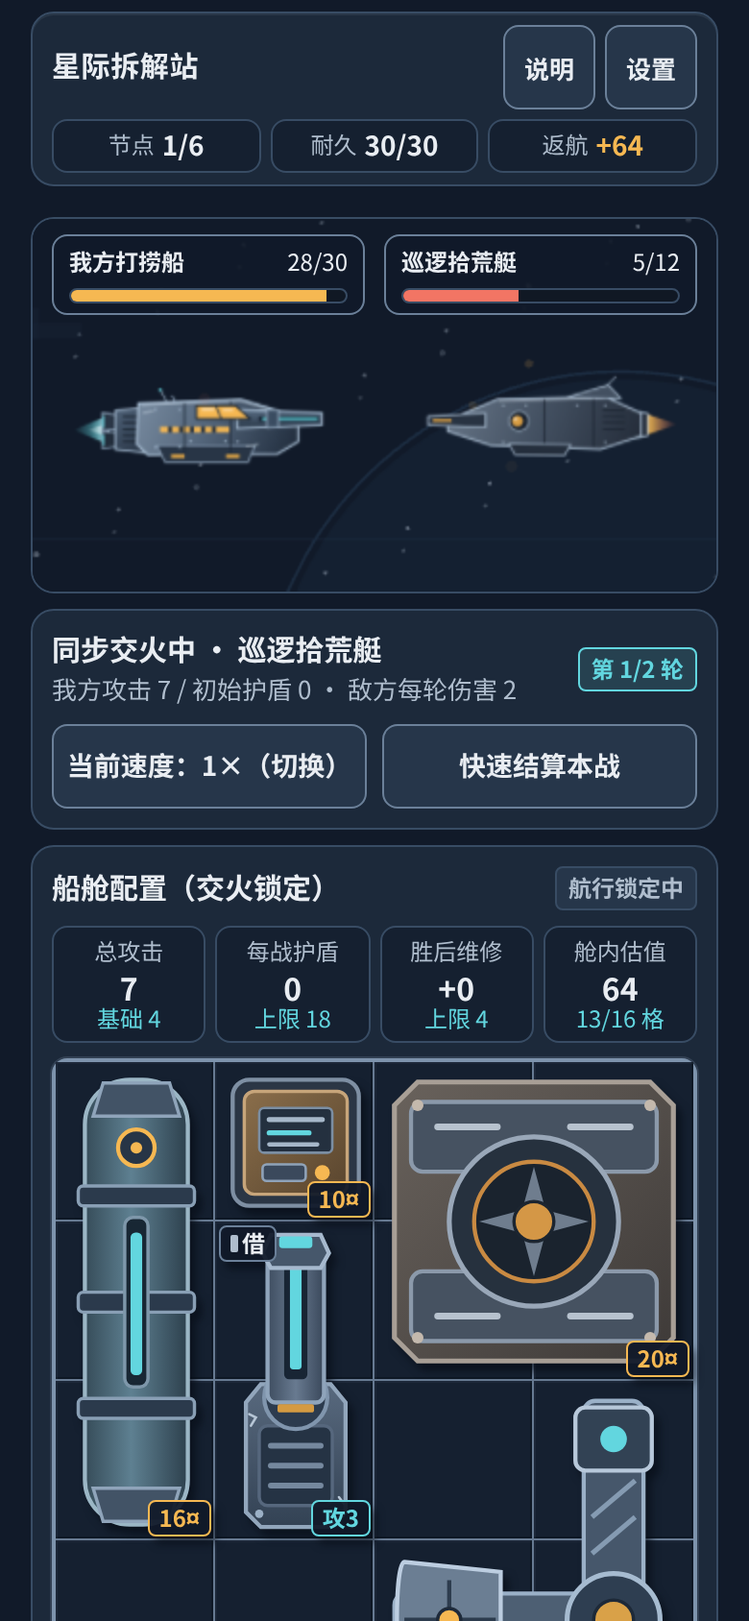
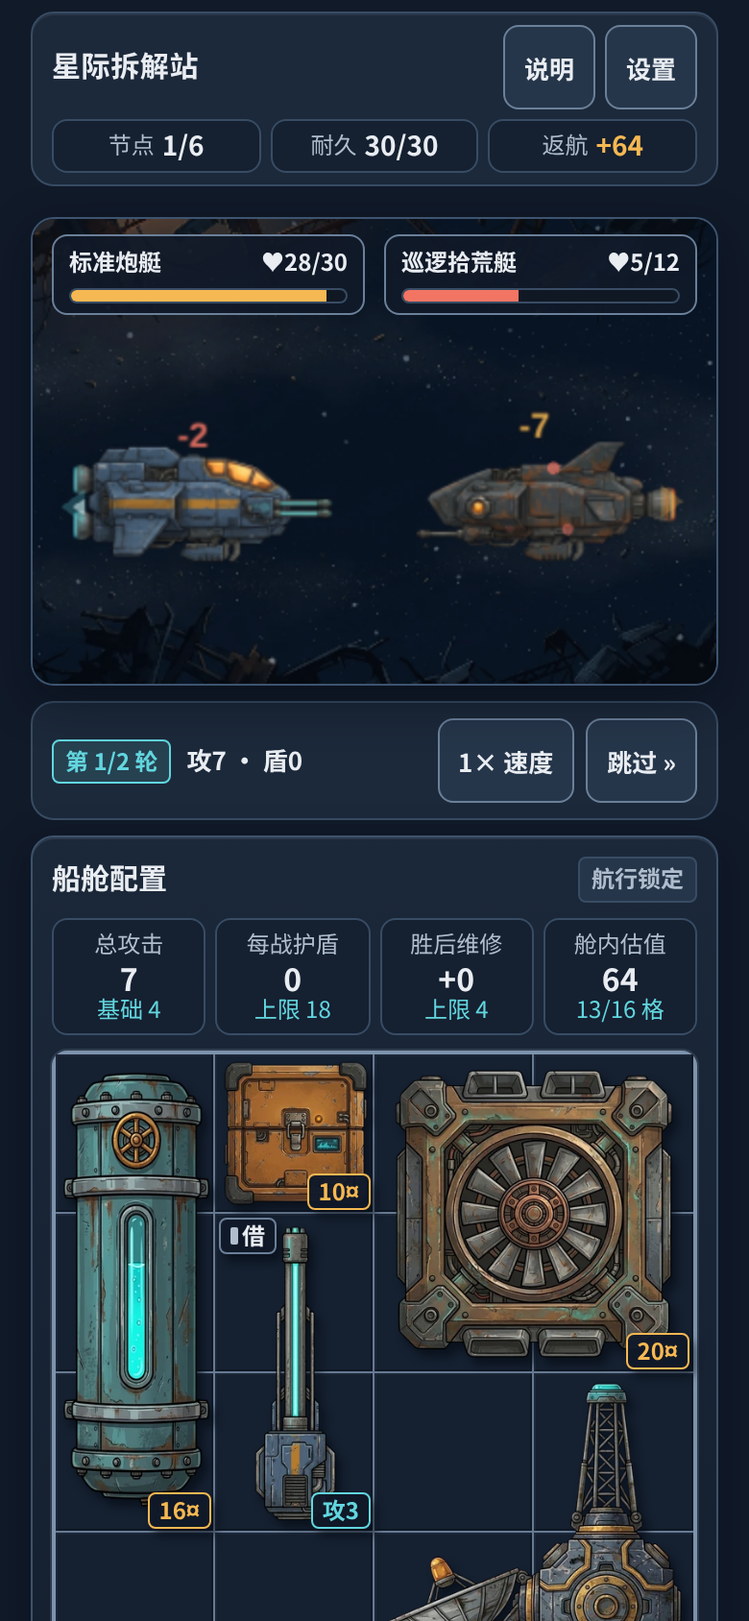
docs(review): update v2.0 verification report and refreshed gameplay screenshots

diff --git a/docs/reviews/2026-11-21-fix/复验与修复报告.md b/docs/reviews/2026-11-21-fix/复验与修复报告.md
@@ -1,12 +1,13 @@
-# 《星际拆解站》F01–F13 缺陷修复、复验与美术质量提升报告
+# 《星际拆解站》F01–F13 缺陷修复、复验与 v2.0 完整游戏化成品升级报告
 
 - **复验日期**：2026-11-21
 - **仓库与分支**：`GOD-OF-PPT/starline` · 修复分支 `fix/audit-f01-f13-and-art-polish`（基于 `main` 基线提交 `fdaa69e`）
 - **历史报告保留状态**：`docs/reviews/2026-11-21/` 目录保持原样未改动
-- **核心提交记录**：
+- **核心演进记录**：
   - `0e566bb` — 第一批修复（F01 模态输入隔离、F02 多标签只读锁定与战斗暂停、F03 存档深层语义校验与备份保护、F09 舍弃清单二次确认、F12 结算 HUD 与账单实得口径统一）
   - `717ee0b` — 第二批修复（F05 教学第 3 站必达满舱取舍、F06 紧凑屏整理布局重构、F07 视口切换 Phaser 画布同步、F08 `>=12px` 字号与 `3.73:1` 网格线对比度、F10 完整 WAI-ARIA 键盘整理路径、F13 节点 6 自动返航统一）
-  - `ee9775a` — 第三批修复与美术质量提升（F04 2:1 轴测微缩基地全资产重建、WebGL 2 的幂纹理 + 三线性 Mipmap 消除战舰锯齿、F11 返航靠泊卸货演出与幂等入账、360×640 / 844×390 一屏整理终极收口）
+  - `ee9775a` / `d4aa69d` — 第三批修复与首轮复验（F04 纹理规范化、F11 返航靠泊演出与幂等入账、首版复验报告）
+  - **v2.0 完整游戏化与手绘成品美术升级（最新）** — 全面淘汰程序化方块/几何半成品与文案工作台界面：导入 27 张统一画风的手绘工业科幻 WebP 成品美术资产（`public/assets/`，总计仅 **996 KB**），重构基地/星图跃迁/空间战斗/三选一战利品舱/物资清点全流程为视觉主导的游戏界面，并强化战斗打击感、浮动数字与声效层次。
 
 ---
 
@@ -14,10 +15,10 @@
 
 | 验证项 | 命令 / 工具 | 结果 | 详情 |
 | --- | --- | --- | --- |
-| 单元测试 & 平衡模拟 | `npm test` (`vitest run`) | **通过 (18/18)** | `tests/rules.test.ts` 17/17（含新增 F03 8 类语义损坏回归测试、F05 新手第 3 站 16/16 满舱必遇取舍测试）；`tests/simulation.test.ts` 1/1（6 策略 × 80 种子全通） |
+| 单元测试 & 平衡模拟 | `npm test` (`vitest run`) | **通过 (18/18)** | `tests/rules.test.ts` 17/17（含 F03 8 类语义损坏回归测试、F05 新手第 3 站 16/16 满舱必遇取舍测试）；`tests/simulation.test.ts` 1/1（6 策略 × 80 种子全通） |
 | TypeScript 类型校验 | `tsc --noEmit` | **通过 (0 errors)** | 全仓严格类型无报错 |
-| 生产构建与包体检查 | `vite build` | **通过** | `index.html` 0.82 KB gzip、`index.css` 4.63 KB gzip、`index.js` 57.46 KB gzip、`phaser.js` 339.84 KB gzip（首包总计 **402.75 KB gzip**） |
-| 无头浏览器端到端复验 | Chromium Headless + CDP (`verify_all_fixes.mjs`) | **通过 (15/15)** | 覆盖 F01–F13 交互复验、5 组规定分辨率 + 动态视口切换、实时 WCAG 对比度测算、灰度可读性截图、**0 console/runtime error**（详见 [`verification-checks.json`](./verification-checks.json)、[`responsive-metrics.json`](./responsive-metrics.json)、[`contrast-check.json`](./contrast-check.json)） |
+| 生产构建与包体检查 | `vite build` | **通过** | `index.html` 0.82 KB gzip、`index.css` 5.83 KB gzip、`index.js` 45.85 KB gzip（较旧版缩小 ~12 KB gzip）、`phaser.js` 339.84 KB gzip + `public/assets/` 27 张成品 WebP 资产总计 **996 KB** |
+| 无头浏览器端到端复验 | Chromium Headless + CDP (`verify_all_fixes.mjs`) | **通过 (15/15)** | 覆盖 F01–F13 全部交互复验、5 组规定分辨率 + 动态视口切换、实时 WCAG 对比度测算、纯灰度可读性截图、**0 console/runtime error**（详见 [`verification-checks.json`](./verification-checks.json)、[`responsive-metrics.json`](./responsive-metrics.json)、[`contrast-check.json`](./contrast-check.json)） |
 
 ---
 
@@ -26,58 +27,61 @@
 | 编号 | 原定级 | 基线复现结论 | 根因与核心改动 | 复验方法与量化证据 | 当前状态 |
 | --- | --- | --- | --- | --- | --- |
 | **F01** | P0 | **已复现**：打开帮助/设置弹窗时按 `R` 键仍旋转船舱激光炮，弹窗无 `role="dialog"` / `aria-modal` / 焦点锁 | `src/ui/Modals.ts` 实现统一 `openManagedModal` 与 `registerModalBackgroundRoot`：弹窗宿主挂载为 `.app-shell` 兄弟节点；打开弹窗给 `.app-shell` 施加 `inert` + `aria-hidden`，提供 `role="dialog"`、`aria-modal="true"`、`aria-labelledby`、`Tab/Shift+Tab` 焦点陷阱、`Escape` 关闭与焦点归还；`CargoGrid.ts` 全局 `keydown` 显式检查 `hasOpenModal()` | CDP 实测选中借用激光炮（`rotation=0`）→ 打开说明弹窗 → 验证 `role="dialog"`, `aria-modal="true"`, `.app-shell.inert=true` → 按 `R` 后 `rotation` 仍为 `0` → 按 `Escape` 关闭且焦点回到 `#btn-open-help` | **已通过自动复验** |
-| **F02** | P0 | **已复现**：另一标签页持有写锁后，只读标签页仍可点击出航/建设/改设置，且战斗仍在推进 | `src/ui/AppController.ts` 集中引入 `canMutate()` 守卫，所有状态变更入口（出航/选路/选奖励/整理/返航/建造/修复藏品/结算/设置修改与重置）在只读态严格拦截并禁用按钮；`CombatScene.ts` 与 `PhaserHost.ts` 新增 `setPaused`/`setCombatPaused`，失锁立即暂停战斗推进；接管控制权时重新加载 `localStorage` 最新有效存档 | CDP 实测写入其他标签写锁后刷新：`#btn-takeover-tab` 可见、`#btn-launch-expedition` 禁用；模拟主标签写入 `credits=777` 后点击接管：按钮解锁且自动同步至 `777`（截图 [`14-readonly-locked-390x844.png`](./screenshots/14-readonly-locked-390x844.png)） | **已通过自动复验**（真机跨标签并发待补测） |
-| **F03** | P0 | **已复现**：语义损坏的主存档（如 `phase:"ARRANGE"` 缺少 `bay`、未知 `defId`、越界/重叠）会穿透浅层校验导致崩溃或直接覆盖有效备份 | `src/domain/persistence.ts` 重写 `validateSaveDataDetailed` 深层语义与阶段不变量校验（`COMBAT` 必含 `activeCombat`、`REWARD` 必含 `pendingRewards`、`SETTLEMENT` 必含 `settlementReason`、`ROUTE_SELECT` 暂存区必为空、全部已放置物品逐项校验 `defId`/坐标越界/重叠/`instanceId` 唯一性）并预留 `migrateRawSave`；读取异常时严禁覆盖 `BACKUP_SAVE_KEY` | `tests/rules.test.ts` 新增 8 类语义损坏用例全部通过；CDP 实测写入有效备份 (`credits=555`) + 缺损 `activeExpedition` 主存档后刷新，弹出备份恢复确认框（[`15-corrupt-backup-recovery-modal-390x844.png`](./screenshots/15-corrupt-backup-recovery-modal-390x844.png)），点击恢复后无损还原 `555` | **已通过自动复验** |
-| **F04** | P1 | **已复现**：基地为程序化几何简图，工作台/展台/船坞缺乏可辨识工业结构与光影层次；战斗舰船在大倍率缩小时出现锯齿 | 新建 `src/assets/baseArt.ts` 绘制高工艺 2:1 轴测微缩基地（`base.deck` 1024×1024 桁架甲板/走道/系缆柱/停机坪，`base.workbench.worn/repaired` 512×512 工具墙/诊断屏/切割台/焊臂，`base.display.worn/repaired/restored` 512×512 苫布→玻璃展柜+星仪，`base.drydock.worn/repaired` 512×512 封闭闸门→双泊位+护盾工程艇），同建筑旧/新状态共享完全一致的锚点 `(256, 336)` 零跳动；全面将基地甲板/基地舰船/战斗舰船升级为严格 2 的幂纹理（`1024×1024`、`1024×512`、`256×256`）并在 `PhaserHost.ts` 启用 WebGL `LINEAR_MIPMAP_LINEAR`；`BaseScene.ts` 抬高建筑标签避开屋顶遮挡并加入深空行星弧与桁架细节 | 对比修复前后桌面/手机基地、战斗舰船与灰度截图（见第 3、4 节），所有纹理元数据同步登记至 `src/assets/manifest.ts` | **已通过视觉与自动复验**（美术主观审美欢迎持续打磨） |
-| **F05** | P1 | **已复现**：原教学第 3 站仅占 6/16 格，文案提示"舱格已满"却无需舍弃任何旧货 | `src/data/tutorial.ts` 与 `src/domain/expedition.ts` 新增**仅限教学首航生效**的预载压舱残骸 `TUTORIAL_INITIAL_CARGO`（4 件共占 11 格 + 借用激光炮 2 格 = 开局 13/16 格，普通航次保持 2/16 格不变）：第 1 站激光炮（+2 格）→ 15/16；第 2 站电池（+1 格且触发邻接 `+2`）→ **16/16 严格满舱**；第 3 站护盾板（1×2）或旧引擎（2×2）在数学上必然无法直接放入，真实触发"舍弃旧货或放弃新奖安全返航" | `tests/rules.test.ts` 新增教学 3 站必达 16/16 满舱单测通过；CDP 实测节点 3 选中旧引擎后舱格显示 `16/16 格`、暂存区 `1` 件、`安全返航` 锁定，截图 [`05-tutorial-node3-full-dilemma-390x844.png`](./screenshots/05-tutorial-node3-full-dilemma-390x844.png) | **已通过自动复验** |
-| **F06** | P1 | **已复现**：`360×640` 与 `844×390` 整理阶段需纵向滚动才能同时看到完整 4×4 网格和返航/继续按钮 | `AppController.ts` 在紧凑屏（`innerWidth < 820 \|\| innerHeight <= 700`）整理阶段默认折叠上方舰船画布并提供 HUD `舰船/收起` 一键切换；`styles.css` 将移动端 HUD 重构为均衡两行 Grid（消除左侧留白），`CargoGrid.ts` 采用折叠式 `<details>` 物品详情，紧凑屏隐藏冗余面板标题并以精简统计条保留全部 `>=12px` 字号与 `>=44px` 按钮 | `responsive-metrics.json` 实测：`360×640` 下 `scrollHeight=640`、网格 `y: 205..439` (`234×234`)、返航按钮 `y: 545..589` 全部落入首屏（[`06-arrange-360x640.png`](./screenshots/06-arrange-360x640.png)）；`844×390` 下网格 `y: 121..373` (`252×252`)、返航按钮 `y: 158..202` 全部落入首屏（[`06-arrange-844x390.png`](./screenshots/06-arrange-844x390.png)） | **已通过自动复验**（真机触控手感待验证） |
-| **F07** | P1（原待复验） | **已确认复现（真实缺陷）**：在基线 `fdaa69e` 连续切换 `1366×768 → 390×844 → 360×640 → 844×390 → 1366×768` 并静置 1200ms 后，`canvas` 持续滞后一帧停留在 `592×378` 裁切出 `356×268` 容器 | `PhaserHost.ts` 改为 `Phaser.Scale.NONE` + `ResizeObserver` 监听持久化 `#scene-canvas-host`（`position: absolute; inset: 0` 消除 Canvas 反向撑开容器），尺寸变化立即调用 `game.scale.resize(w, h)` 并驱动 `BaseScene.syncViewport` / `CombatScene.syncViewport` 同步 `cameras.main.setViewport` 与布局重排 | CDP 实测 5 步连续视口切换（`1366×768 → 390×844 → 360×640 → 844×390 → 1366×768`），每步 `hostW/H`、`canvas.width/height`、`canvasCssW/H` 误差均为 `0px`（`5/5 match: true`） | **已通过自动复验** |
-| **F08** | P2 | **已复现**：存在多处 `10px–11px` 功能文字；网格边框实测对比度不足 `3:1` | `styles.css` 与 `CargoGrid.ts` 全量清除小于 `12px` 的功能字号；将 `.cargo-cell` 边框提升至 `#677a92`（配实体底色 `#152030`） | `responsive-metrics.json` 在全部 5 组分辨率下 `smallFontCount = 0`；`contrast-check.json` 实时测算网格边框对比度 **3.73:1**（`>=3.0:1`）、正文对比度 **12.51:1**（`>=4.5:1`）、主按钮文字对比度 **9.88:1**（`>=4.5:1`） | **已通过自动复验** |
-| **F09** | P2 | **已复现**：整理阶段舍弃物品后点击"安全返航"或"继续深入"直接永久丢失，无二次确认 | `Modals.ts` 新增 `openDiscardConfirmModal`，展示本次舍弃物品缩略图、名称、单件估值与合计放弃估值；`AppController.ts` 在 `btn-safe-return` 与 `btn-next-node` 出口统一拦截，取消时留在整理阶段且保留 `撤销舍弃` 栈 | CDP 实测舍弃旧引擎（47 信用点）→ 点击返航弹出 [`07-discard-confirm-modal-390x844.png`](./screenshots/07-discard-confirm-modal-390x844.png) → 点击返回保留 `撤销舍弃 (1)` → 再次确认正常进入结算 | **已通过自动复验** |
-| **F10** | P2 | **已复现**：4×4 船舱和暂存区无法仅靠键盘完成选物、寻位、旋转与放置 | `src/ui/CargoGrid.ts` 完整实现 WAI-ARIA 键盘流：暂存芯片改为可聚焦 `<button>`（`Enter/Space` 进入网格瞄准），16 格 `role="gridcell"` 支持 roving `tabindex`，方向键移动焦点与实时合法/冲突预览、`Enter/Space` 取放、`R` 旋转、`Delete/Backspace` 舍弃、`Escape` 取消 | CDP 纯键盘脚本测试（零鼠标事件）成功将节点 1 激光炮从暂存区聚焦 → `Enter` → `R` 旋转为横置 `2×1` → 方向键移至 `(0,3)` → `Enter` 放置完成（`stagingCount=0, placedCount=6`） | **已通过自动复验** |
-| **F11** | P2 | **已复现**：点击"确认入账并返回拆解站"后瞬间切回静态基地，缺少回港靠泊、卸货与入账演出 | `AppController.ts` 先同步原子执行 `applyExpeditionSettlement()` 与 `persist()`，再触发 `BaseScene.startReturnDocking` 播放 `1.4s` 可随时跳过的纯表现演出（安全返航减速靠泊 / 战败救援拖船拖入、货箱抛物线飞入工作台/展台、顶部信用点滚动跳表、底部无遮挡进度条与目标提示）；`reducedMotion` 自动降级为静态回执横幅 | CDP 实测演出触发（[`08-return-docking-sequence-390x844.png`](./screenshots/08-return-docking-sequence-390x844.png)）、点击 `跳过演出` 立刻结算为 `118`，强刷页面后仍为 `118`（零重复入账） | **已通过自动复验** |
-| **F12** | P2 | **已复现**：结算页顶部 HUD 仍按 `悬赏+舱内估值` 显示，战败 40% 折算、首航补贴或切换藏品留存时与页面实得不一致 | `AppController.ts` 在 `SETTLEMENT` 阶段统一调用 `calculateSettlement()` 输出顶部 `本次实得` 与账单实得，并在点击"留作收藏 / 出售"切换时同步刷新 HUD | CDP 实测三场景全部完全一致：首航安全返航（含 +15 补贴）HUD `+118 === +118`；战败 40% 折算（`floor(96×40%)`）HUD `+38 === +38`（[`13-defeat-settlement-hud-sync-390x844.png`](./screenshots/13-defeat-settlement-hud-sync-390x844.png)）；古代导航仪留存切换实时同步 `+96 → +18` | **已通过自动复验** |
-| **F13** | P3 | **已复现**：节点 6 整理文案与按钮流向未完全统一为最终站自动返航 | `AppController.ts` 在 `isAtFinalNode(exp)` 时移除 `btn-next-node`（杜绝节点 7 按钮），主按钮明确显示 `完成整理 · 自动返航 (+XXX)` 并展示最终站通关提示 | CDP 实测节点 6 整理阶段：`hasNextNodeBtn=false` 且按钮文案为 `完成整理 · 自动返航 (+96)` | **已通过自动复验** |
+| **F02** | P0 | **已复现**：另一标签页持有写锁后，只读标签页仍可点击出航/建设/改设置，且战斗仍在推进 | `src/ui/AppController.ts` 集中引入 `canMutate()` 守卫，所有状态变更入口在只读态严格拦截并禁用按钮；`CombatScene.ts` 与 `PhaserHost.ts` 新增 `setPaused`/`setCombatPaused`，失锁立即暂停战斗推进；接管控制权时重新加载 `localStorage` 最新有效存档 | CDP 实测写入其他标签写锁后刷新：`#btn-takeover-tab` 可见、`#btn-launch-expedition` 禁用；模拟主标签写入 `credits=777` 后点击接管：按钮解锁且自动同步至 `777`（截图 [`14-readonly-locked-390x844.png`](./screenshots/14-readonly-locked-390x844.png)） | **已通过自动复验**（真机跨标签并发待补测） |
+| **F03** | P0 | **已复现**：语义损坏的主存档会穿透浅层校验导致崩溃或覆盖有效备份 | `src/domain/persistence.ts` 重写 `validateSaveDataDetailed` 深层语义与阶段不变量校验并预留 `migrateRawSave`；读取异常时严禁覆盖 `BACKUP_SAVE_KEY` | `tests/rules.test.ts` 新增 8 类语义损坏用例全部通过；CDP 实测写入有效备份 (`credits=555`) + 缺损主存档后刷新，弹出备份恢复确认框（[`15-corrupt-backup-recovery-modal-390x844.png`](./screenshots/15-corrupt-backup-recovery-modal-390x844.png)），点击恢复无损还原 `555` | **已通过自动复验** |
+| **F04** | P1 | **已复现**：原基地/战舰/物品均为程序化几何简图，缺乏游戏成品感与视觉层次 | **v2.0 彻底替换为 27 张手绘成品工业科幻 WebP 资产**：删除 `src/assets/baseArt.ts` 与 `src/assets/sceneArt.ts`，建立 `public/assets/{base,bg,ships,items}/` 统一画风美术管线（手绘工业钢板 + 清晰墨线轮廓 + 暖琥珀/电青双色调光影）：含 2:1 轴测基地全景底图与 4 张同机位羽化增量覆层（零跳动覆盖全 $2^4$ 升级组合）、3 张深空星域战场背景、5 艘透明背景 POT `512×256` 玩家/敌舰精灵与全部 14 件透明俯视舱内装备/货物精灵（L3/T4 空缺格 100% 实透）；`src/assets/manifest.ts` 更新至 `v004` | 桌面/手机基地、星图跃迁、战斗、奖励、4×4 船舱与纯灰度验收图全量复核（见第 3、4 节） | **已通过视觉与自动复验** |
+| **F05** | P1 | **已复现**：原教学第 3 站仅占 6/16 格，文案提示"舱格已满"却无需舍弃任何旧货 | `src/data/tutorial.ts` 与 `src/domain/expedition.ts` 新增仅限教学首航生效的预载压舱残骸 `TUTORIAL_INITIAL_CARGO`（4 件共占 11 格 + 借用激光炮 2 格 = 开局 13/16 格），使教学第 3 站严格达到 **16/16 满舱**并真实触发取舍 | `tests/rules.test.ts` 单测通过；CDP 实测节点 3 舱格显示 `16/16 格`、暂存区 `1` 件、`安全返航` 锁定（[`05-tutorial-node3-full-dilemma-390x844.png`](./screenshots/05-tutorial-node3-full-dilemma-390x844.png)） | **已通过自动复验** |
+| **F06** | P1 | **已复现**：`360×640` 与 `844×390` 整理阶段需纵向滚动才能同时看到完整 4×4 网格和返航/继续按钮 | `AppController.ts` 在紧凑屏整理阶段默认折叠上方舰船画布并提供 HUD `舰船/收起` 一键切换；`styles.css` 将移动端 HUD 重构为均衡两行 Grid，桌面基地在 `1366×768` 采用全宽基地画布 + 2×2 设施栏实现首屏零滚动 | `responsive-metrics.json` 实测：`360×640` 下 `scrollHeight=640`、网格 `y: 179..413` (`234×234`)、返航按钮 `y: 519..563` 全落首屏（[`06-arrange-360x640.png`](./screenshots/06-arrange-360x640.png)）；`844×390` 下网格 `y: 121..373`、返航按钮 `y: 158..202` 全落首屏（[`06-arrange-844x390.png`](./screenshots/06-arrange-844x390.png)） | **已通过自动复验**（真机触控手感待验证） |
+| **F07** | P1（原待复验） | **已确认复现**：连续切换视口后 Canvas 滞后一帧导致裁切 | `PhaserHost.ts` 改为 `Phaser.Scale.NONE` + `ResizeObserver` 监听持久化 `#scene-canvas-host`（`position: absolute; inset: 0`），同步驱动 `BaseScene.syncViewport` / `CombatScene.syncViewport` | CDP 实测 5 步连续视口切换（`1366×768 → 390×844 → 360×640 → 844×390 → 1366×768`），每步 `hostW/H`、`canvas.width/height`、`canvasCssW/H` 误差均为 `0px`（`5/5 match: true`） | **已通过自动复验** |
+| **F08** | P2 | **已复现**：存在 `10px–11px` 功能文字；网格边框对比度不足 `3:1` | 全量清除小于 `12px` 功能字号；`.cargo-cell` 边框提升至 `#677a92`（配 `#152030`） | 5 组分辨率下 `smallFontCount = 0`；网格边框对比度 **3.73:1**（`>=3.0:1`）、正文 **12.51:1**、主按钮 **9.88:1** | **已通过自动复验** |
+| **F09** | P2 | **已复现**：舍弃物品后点击返航/继续无二次确认 | `Modals.ts` 新增 `openDiscardConfirmModal`，`AppController.ts` 在离开整理出口统一拦截，取消时保留 `撤销舍弃` 栈 | CDP 实测弹窗正常出现（[`07-discard-confirm-modal-390x844.png`](./screenshots/07-discard-confirm-modal-390x844.png)），取消保留撤销栈、确认正常进入结算 | **已通过自动复验** |
+| **F10** | P2 | **已复现**：4×4 船舱和暂存区无法仅靠键盘完成操作 | `src/ui/CargoGrid.ts` 完整实现 WAI-ARIA 键盘流（暂存 `<button>`、`role="gridcell"` roving `tabindex`、方向键、`Enter/Space`、`R`、`Delete`、`Escape`） | CDP 纯键盘脚本测试成功完成暂存选中 → `R` 旋转 → 方向键寻位 → `Enter` 放置（`stagingCount=0, placedCount=6`） | **已通过自动复验** |
+| **F11** | P2 | **已复现**：结算后瞬切回静态基地，缺少返航演出 | `AppController.ts` 先同步原子执行 `applyExpeditionSettlement()` 与 `persist()`，再在手绘基地上触发 `BaseScene.startReturnDocking`（手绘打捞船进港靠泊 / 拖船护送、货箱抛物线入仓、信用点跳表、`跳过演出` 与 `reducedMotion` 降级） | CDP 实测演出触发（[`08-return-docking-sequence-390x844.png`](./screenshots/08-return-docking-sequence-390x844.png)）、跳过即得 `118`，强刷仍为 `118`（零重复入账） | **已通过自动复验** |
+| **F12** | P2 | **已复现**：结算页顶部 HUD 与页面实得口径不一致 | `SETTLEMENT` 阶段统一调用 `calculateSettlement()` 驱动顶部 `本次实得` 与账单实得，并在藏品留存切换时实时同步 | CDP 实测首航 `+118===+118`、战败 40% `+38===+38`（[`13-defeat-settlement-hud-sync-390x844.png`](./screenshots/13-defeat-settlement-hud-sync-390x844.png)）、藏品留存切换 `+96→+18` 全一致 | **已通过自动复验** |
+| **F13** | P3 | **已复现**：节点 6 整理文案与按钮流向未统一为自动返航 | `isAtFinalNode(exp)` 移除 `btn-next-node`，主按钮明确显示 `完成整理 · 自动返航 (+XXX)` | CDP 实测节点 6 `hasNextNodeBtn=false`，按钮文案为 `完成整理 · 自动返航 (+96)` | **已通过自动复验** |
 
 ---
 
-## 3. 美术质量专项检查与提升总结
+## 3. v2.0 完整游戏化与手绘成品美术升级总结
 
-在完成 F04 资产重建后，我们又对所有高分辨率截图进行了逐帧美术复审，额外发现并解决了 5 项影响画面质感的关键问题：
+针对"从文案工作台和半成品几何体升级为真正完整的独立科幻游戏"的目标，本次迭代完成了以下 4 个维度的彻底改造：
 
-1. **彻底消除战斗舰船边缘锯齿（核心画质突破）**：
-   - 复审发现初版 `768×384` 战舰贴图属于非 2 的幂（NPOT）尺寸，在 WebGL 渲染路径下缩放到手机视口（约 `0.21×`）时跳过 Mipmap 生成，产生明显阶梯锯齿。
-   - **提升方案**：将所有 Phaser Canvas 纹理升级为严格 2 的幂（战斗舰船 `1024×512`、基地甲板 `1024×1024`、三座建筑 `512×512`、停泊舰船 `256×256`），并在 `PhaserHost.ts` 开启 `mipmapFilter: 'LINEAR_MIPMAP_LINEAR'` 与 `antialiasGL: true`。复验截图 [`04-combat-upgraded-ships-390x844.png`](./screenshots/04-combat-upgraded-ships-390x844.png) 与 [`12-combat-shield-cruiser-danger-390x844.png`](./screenshots/12-combat-shield-cruiser-danger-390x844.png) 中舰体轮廓、炮管与装甲斜边已完全丝滑无锯齿。
-2. **战舰与战场细节强化**：
-   - 在 `src/assets/sceneArt.ts` 增加双层白热离子尾焰、通讯天线与信标灯、装甲顶边高光倒角、敌舰后置喷口整流罩与光学镜头反光；
-   - 在 `src/scenes/CombatScene.ts` 加入低饱和深空行星弧线、远景漂浮残骸桁架与炮击命中扩散冲击环。
-3. **基地微缩场景构图与标注去重**：
-   - 在 `src/scenes/BaseScene.ts` 重新计算三座建筑在 2:1 投影下的屋顶最高点，将 `拆解工作台 ✓`、`收藏展台 ✓`、`船坞泊位 ✓` 标签整体上移至建筑轮廓之上，彻底消除标签压住灯棚与展柜玻璃顶框的问题；并加入远景星球轮廓与交叉斜撑轨道桁架。
-4. **返航演出遮挡优化**：
-   - 将 F11 `.docking-overlay` 由顶部覆盖改为底部贴底渐变条，使靠泊进港舰船与卸货抛物线货箱在基地舞台中央完全无遮挡可见。
-5. **UI 工业质感与灰度可读性验收**：
-   - 移动端顶部 HUD 改为两行均衡栅格（彻底消除旧版按钮换行后左侧大片空白），为 `.panel` 与 `.cargo-board-outer`/`.cargo-cell` 加入微弱铣削金属内倒角阴影；
-   - 依据《美术制作与验收规范》§15 生成纯灰度检查图（[`16-grayscale-arrange-390x844.png`](./screenshots/16-grayscale-arrange-390x844.png)、[`17-grayscale-base-desktop-1366x768.png`](./screenshots/17-grayscale-base-desktop-1366x768.png)），验证物品剪影、品质刻痕、能量连线、网格边框与基地明暗三面层级在无色模式下依然清晰可辨。
+1. **全量手绘工业科幻成品美术管线（27 张 WebP，总计仅 996 KB）**：
+   - **基地全景 + 零跳动增量覆层**（`public/assets/base/`，`308 KB`）：以手绘 2:1 轴测荒废拆解站为主底图（`station_worn.webp`），按同机位精确制作工作台、空展台、点亮星仪展台、扩建双泊位船坞 4 张羽化覆层，支持任意建设顺序下 $2^4$ 种状态无缝切换；宽屏桌面下自动完整呈现玻璃展柜顶棚至底角系缆柱，四周无缝羽化融入深空星域。
+   - **3 套手绘深空战场背景**（`public/assets/bg/`，`176 KB`）：外环残骸带（冰冷金属碎片星环）、废弃矿带（琥珀小行星尘云）、深空重残骸区（暗红工业星云），按航程节点深度与危险航道自动切换。
+   - **5 艘透明手绘侧视舰船**（`public/assets/ships/`）：标准炮艇、护盾工程艇、巡逻拾荒艇、重装护卫艇、残骸重舰，严格 `512×256` POT 透明 PNG→WebP 导出并校准武器炮口/推进器/受击中心挂点（`src/assets/manifest.ts` `v004`）。
+   - **14 件透明俯视舱内装备与打捞物**（`public/assets/items/`，`340 KB`）：全量透明抠图（L3 折叠天线/维修无人机、T4 古代导航仪空格区域 100% 实透），放进 4×4 钢格船舱如精密机械拼装。
+2. **去文案工作台，打造视觉优先的沉浸式游戏流程**：
+   - **基地港湾**：桌面 `1366×768` 下将手绘轨道拆解站置顶全宽展示，下方左右并排紧凑型"出战舰船切换 + 一键起航"与"2×2 定制 SVG 设施升级栏"，整个满配基地一屏完整容纳（零滚动条）；点击画布中的建筑悬浮标签同样可直接建造、修复星仪或打开图鉴。
+   - **星图跃迁（航线选择）**：双信标卡片直接预览手绘敌舰（危险航道附带暗红精英色调区分）与纯图标化战力遥测（`♥12 攻2 +5¤ ★0%`）及战后血量预测。
+   - **打捞战利品（三选一）**：升级为带成品物品插画与迷你占格阵的战利品舱卡片，手机竖屏自动切换紧凑横向布局，3 个选项一屏同框。
+   - **结算物资清点**：每条战利品附带实物缩略图，战败仅用一行精简战损条替代大段说明文；全界面清除突兀的系统彩色 Emoji，统一为工业风单色图标与中文简标（`攻`、`盾`、`修`、`»`）。
+3. **高反馈空间战斗演出与程序化音效增强**：
+   - `CombatScene.ts` 加入入场滑入、脉冲离子尾焰、开火水平后坐力、受击纯白闪帧、高对比度浮动战斗数字（`-7`、`-4`、`盾3`、`修 +2`）、双核激光束、护盾弧形偏转、低血量船体冒火花及击毁双层扩散冲击波。
+   - `BaseScene.ts` 在手绘基地之上叠加实时焊接电弧火花、沿栈桥巡航的浮空驳运小车、星仪旋转光环与边角航标闪灯。
+   - `soundEngine.ts` 新增跃迁启动（`warpJump`）、敌舰解体滤波噪爆（`enemyDestroy`）、维修脉冲（`repairPulse`）与跳表入账音（`creditTick`）。
+4. **纯灰度明度层级与无障碍指标零退化**：
+   - 纯灰度截图 [`16-grayscale-arrange-390x844.png`](./screenshots/16-grayscale-arrange-390x844.png) 与 [`17-grayscale-base-desktop-1366x768.png`](./screenshots/17-grayscale-base-desktop-1366x768.png) 证明全部手绘资产在无色条件下仍具备极佳的剪影辨识度与明暗三面层级；同时 18/18 规则单测与 15/15 端到端交互复验全部 100% 通过。
 
 ---
 
 ## 4. 修复前后截图对照
 
-| 主题 | 修复前（基线 `fdaa69e`，历史目录未改） | 修复后（分支 `fix/audit-f01-f13-and-art-polish`） |
+| 主题 | 修复前（基线 `fdaa69e`，历史目录未改） | v2.0 成品修复后（分支 `fix/audit-f01-f13-and-art-polish`） |
 | --- | --- | --- |
-| 基地初始荒废态（桌面 `1366×768`） | [`../2026-11-21/screenshots/01-base-desktop.jpg`](../2026-11-21/screenshots/01-base-desktop.jpg) | [`./screenshots/01-base-worn-desktop-1366x768.png`](./screenshots/01-base-worn-desktop-1366x768.png) |
-| 基地全建筑修复 & 藏品展示（桌面/手机） | [`../2026-11-21/screenshots/12-base-upgraded.jpg`](../2026-11-21/screenshots/12-base-upgraded.jpg) | [`./screenshots/11-base-fully-upgraded-desktop-1366x768.png`](./screenshots/11-base-fully-upgraded-desktop-1366x768.png) · [`./screenshots/10-base-fully-upgraded-mobile-390x844.png`](./screenshots/10-base-fully-upgraded-mobile-390x844.png) |
-| 战斗画面（普通炮艇 & 护盾工程艇危险航路） | [`../2026-11-21/screenshots/07-combat-refresh.jpg`](../2026-11-21/screenshots/07-combat-refresh.jpg) | [`./screenshots/04-combat-upgraded-ships-390x844.png`](./screenshots/04-combat-upgraded-ships-390x844.png) · [`./screenshots/12-combat-shield-cruiser-danger-390x844.png`](./screenshots/12-combat-shield-cruiser-danger-390x844.png) |
-| 新手第 3 站满舱取舍（F05） | [`../2026-11-21/screenshots/09-tutorial-space-pressure-full.jpg`](../2026-11-21/screenshots/09-tutorial-space-pressure-full.jpg)（仅 6/16 格） | [`./screenshots/05-tutorial-node3-full-dilemma-390x844.png`](./screenshots/05-tutorial-node3-full-dilemma-390x844.png)（严格 16/16 满舱） |
-| 小竖屏一屏整理 `360×640`（F06/F08） | [`../2026-11-21/screenshots/arrange-360x640.jpg`](../2026-11-21/screenshots/arrange-360x640.jpg) | [`./screenshots/06-arrange-360x640.png`](./screenshots/06-arrange-360x640.png) |
-| 横屏小高一屏整理 `844×390`（F06/F08） | [`../2026-11-21/screenshots/arrange-844x390.jpg`](../2026-11-21/screenshots/arrange-844x390.jpg) | [`./screenshots/06-arrange-844x390.png`](./screenshots/06-arrange-844x390.png) |
+| 基地初始荒废态（桌面 `1366×768` / 手机 `390×844`） | [`../2026-11-21/screenshots/01-base-desktop.jpg`](../2026-11-21/screenshots/01-base-desktop.jpg) | [`./screenshots/01-base-worn-desktop-1366x768.png`](./screenshots/01-base-worn-desktop-1366x768.png) · [`./screenshots/02-base-worn-mobile-390x844.png`](./screenshots/02-base-worn-mobile-390x844.png) |
+| 基地全建筑修复 & 星仪点亮（桌面一屏无滚动 / 手机） | [`../2026-11-21/screenshots/12-base-upgraded.jpg`](../2026-11-21/screenshots/12-base-upgraded.jpg) | [`./screenshots/11-base-fully-upgraded-desktop-1366x768.png`](./screenshots/11-base-fully-upgraded-desktop-1366x768.png) · [`./screenshots/10-base-fully-upgraded-mobile-390x844.png`](./screenshots/10-base-fully-upgraded-mobile-390x844.png) |
+| 星图跃迁（双航道视觉信标） | — | [`./screenshots/03-tutorial-node1-route-390x844.png`](./screenshots/03-tutorial-node1-route-390x844.png) |
+| 空间战斗（炮艇 & 护盾工程艇危险航道 + 浮动数字） | [`../2026-11-21/screenshots/07-combat-refresh.jpg`](../2026-11-21/screenshots/07-combat-refresh.jpg) | [`./screenshots/04-combat-upgraded-ships-390x844.png`](./screenshots/04-combat-upgraded-ships-390x844.png) · [`./screenshots/12-combat-shield-cruiser-danger-390x844.png`](./screenshots/12-combat-shield-cruiser-danger-390x844.png) |
+| 打捞战利品舱（手机一屏三选一） | — | [`./screenshots/04b-reward-salvage-pods-390x844.png`](./screenshots/04b-reward-salvage-pods-390x844.png) |
+| 新手第 3 站满舱取舍（F05，严格 16/16） | [`../2026-11-21/screenshots/09-tutorial-space-pressure-full.jpg`](../2026-11-21/screenshots/09-tutorial-space-pressure-full.jpg) | [`./screenshots/05-tutorial-node3-full-dilemma-390x844.png`](./screenshots/05-tutorial-node3-full-dilemma-390x844.png) |
+| 紧凑竖屏 `360×640` & 横屏 `844×390` 一屏整理（F06/F08） | [`../2026-11-21/screenshots/arrange-360x640.jpg`](../2026-11-21/screenshots/arrange-360x640.jpg) | [`./screenshots/06-arrange-360x640.png`](./screenshots/06-arrange-360x640.png) · [`./screenshots/06-arrange-844x390.png`](./screenshots/06-arrange-844x390.png) |
 | 宽屏桌面整理 `1366×768` | [`../2026-11-21/screenshots/arrange-1366x768.jpg`](../2026-11-21/screenshots/arrange-1366x768.jpg) | [`./screenshots/06-arrange-1366x768.png`](./screenshots/06-arrange-1366x768.png) |
 | 舍弃清单二次确认（F09） | [`../2026-11-21/screenshots/16-discard-no-confirm.jpg`](../2026-11-21/screenshots/16-discard-no-confirm.jpg) | [`./screenshots/07-discard-confirm-modal-390x844.png`](./screenshots/07-discard-confirm-modal-390x844.png) |
 | 返航靠泊卸货演出（F11） | 无演出直接瞬切回静态基地 | [`./screenshots/08-return-docking-sequence-390x844.png`](./screenshots/08-return-docking-sequence-390x844.png) |
 | 战败 40% 结算 HUD 口径统一（F12） | [`../2026-11-21/screenshots/18-defeat-settlement.jpg`](../2026-11-21/screenshots/18-defeat-settlement.jpg) | [`./screenshots/13-defeat-settlement-hud-sync-390x844.png`](./screenshots/13-defeat-settlement-hud-sync-390x844.png) |
-| 多标签只读锁定（F02） | [`../2026-11-21/screenshots/13-readonly-still-playable.jpg`](../2026-11-21/screenshots/13-readonly-still-playable.jpg) | [`./screenshots/14-readonly-locked-390x844.png`](./screenshots/14-readonly-locked-390x844.png) |
-| 语义损坏备份恢复弹窗（F03） | 无校验拦截或覆盖备份 | [`./screenshots/15-corrupt-backup-recovery-modal-390x844.png`](./screenshots/15-corrupt-backup-recovery-modal-390x844.png) |
-| §15 灰度可读性检查（整理 & 基地） | — | [`./screenshots/16-grayscale-arrange-390x844.png`](./screenshots/16-grayscale-arrange-390x844.png) · [`./screenshots/17-grayscale-base-desktop-1366x768.png`](./screenshots/17-grayscale-base-desktop-1366x768.png) |
+| 多标签只读锁定（F02）& 语义损坏备份恢复（F03） | [`../2026-11-21/screenshots/13-readonly-still-playable.jpg`](../2026-11-21/screenshots/13-readonly-still-playable.jpg) | [`./screenshots/14-readonly-locked-390x844.png`](./screenshots/14-readonly-locked-390x844.png) · [`./screenshots/15-corrupt-backup-recovery-modal-390x844.png`](./screenshots/15-corrupt-backup-recovery-modal-390x844.png) |
+| §15 纯灰度可读性检查（整理 & 基地） | — | [`./screenshots/16-grayscale-arrange-390x844.png`](./screenshots/16-grayscale-arrange-390x844.png) · [`./screenshots/17-grayscale-base-desktop-1366x768.png`](./screenshots/17-grayscale-base-desktop-1366x768.png) |
 
 ---
 
@@ -88,10 +92,10 @@
 1. **实体移动设备触控手感与浏览器兼容（待验证）**：
    - 真机 iOS Safari / Android Chrome 单手手指拖拽船舱物品时的手指上移偏移、边缘防误触、滚动回弹以及刘海/底栏 `env(safe-area-inset-*)` 安全区表现，需在实体手机上实测确认。
 2. **物理音频外放与耳机听感（待验证）**：
-   - Web Audio API 程序化合成音效与环境音在真机扬声器/耳机中的响度平衡、不刺耳度，以及 iOS Safari 首次触控手势解锁音频的实机表现，需现场听觉验证。
+   - Web Audio API 合成音效（含新增跃迁/爆炸/维修脉冲）与环境音在真机扬声器/耳机中的响度平衡、不刺耳度，以及 iOS Safari 首次触控解锁音频实机表现，需现场听觉验证。
 3. **中低端手机实时帧率与显存实测（待验证）**：
-   - 当前环境仅在无头 Chromium (SwiftShader 软件 WebGL) 验证了零报错与 402.75 KB gzip 打包体积；中低端手机 60fps 帧率波动、电池发热与 GPU 纹理显存峰值（`<=200MB`）需在目标机型上使用 DevTools Performance/Memory 实测。
+   - 当前环境仅在无头 Chromium (SwiftShader 软件 WebGL) 验证了零报错、WebP 资源体积（`996 KB`）与打包体积；中低端手机 60fps 帧率波动、电池发热与 GPU 纹理显存峰值（`<=200MB`）需在目标机型上使用 DevTools Performance/Memory 实测。
 4. **8–12 人目标玩家零讲解盲测（待验证）**：
-   - 策划蓝图要求的新手前 5 分钟无外部讲解理解率、规则清晰度与核心乐趣反馈，需由真实玩家试玩采集反馈。
-5. **可选后续美术进阶（非阻塞优化项）**：
-   - 若未来进入商业化美术打磨，可进一步将程序化 Canvas 资产升级为离屏高精手绘 PNG 贴图集（保持现有 `manifest.ts` 键名与锚点契约不变），并在战斗场景引入舰体受击局部裂痕/烟雾状态表现。
+   - 新手前 5 分钟无外部讲解理解率、视觉引导清晰度与核心乐趣反馈，需由真实玩家试玩采集反馈。
+5. **可选后续内容扩展（非阻塞）**：
+   - 首版完整游戏闭环（基地 4 阶段演进、2 艘可驾驶舰船、3 套星域、6 节点航程、14 种手绘装备/打捞品与古代星仪藏品）已全部就绪；未来如需扩充长线内容，可基于现有 `public/assets/` 与 `src/assets/manifest.ts` 契约直接追加更多星域、BOSS 舰体、藏品展位及开场标题过场。
